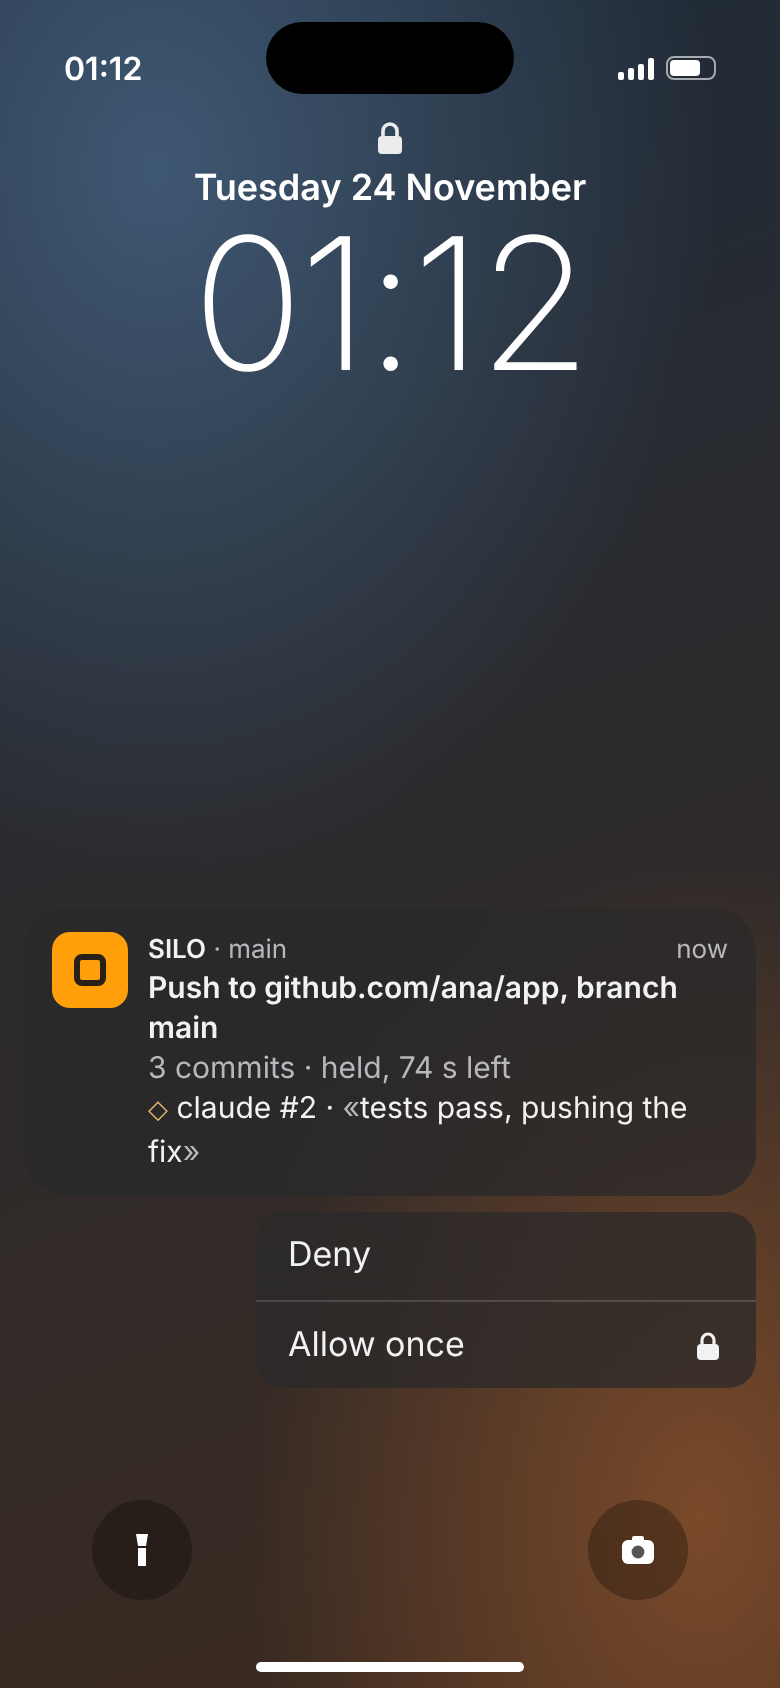
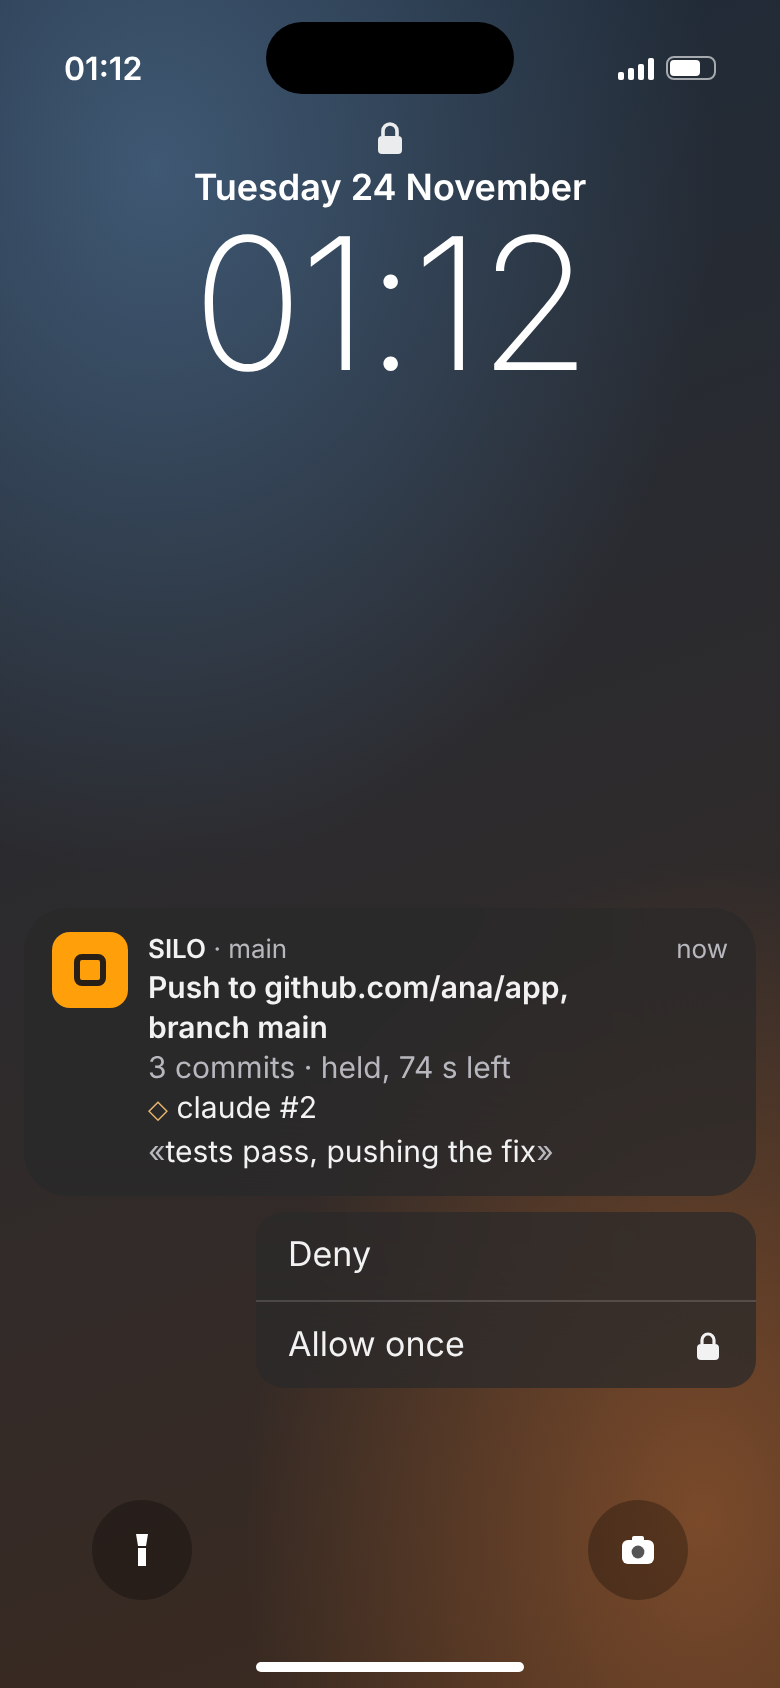
Research: experience, static pictures of the phone ask, the phone list, the Mac's morning screen and a Mac notification
Claude-Session: https://claude.ai/code/session_01D1gwS3kY6ywMLTtiG79Ebi

diff --git a/research/2026-11-24-experience/screens/phone-list.html b/research/2026-11-24-experience/screens/phone-list.html
@@ -1,0 +1,181 @@
+<!doctype html>
+<html lang="en">
+<head>
+<meta charset="utf-8">
+<meta name="viewport" content="width=device-width, initial-scale=1">
+<title>Silo phone list</title>
+<style>
+:root {
+  --paper: #f2f2ef; --surface: #fff; --ink: #282a2f; --muted: #666a73; --faint: #8a8e92;
+  --line: #e2e3e0; --rule: #c6c9c5; --accent: #ff9f0a; --accent-ink: #995700; --accent-wash: #fff2dc;
+  --no: #c4493c; --hover: #f1f1ee;
+}
+@media (prefers-color-scheme: dark) {
+  :root:not([data-theme="light"]) {
+    --paper: #111314; --surface: #202425; --ink: #e5e7e4; --muted: #a5adaa; --faint: #7f8785;
+    --line: #2f3535; --rule: #4b5454; --accent-ink: #e8b66e; --accent-wash: #30291f; --no: #ee7d70; --hover: #282d2e;
+  }
+}
+:root[data-theme="dark"] {
+  --paper: #111314; --surface: #202425; --ink: #e5e7e4; --muted: #a5adaa; --faint: #7f8785;
+  --line: #2f3535; --rule: #4b5454; --accent-ink: #e8b66e; --accent-wash: #30291f; --no: #ee7d70; --hover: #282d2e;
+}
+* { box-sizing: border-box; }
+html, body { margin: 0; height: 100%; }
+body {
+  background: var(--paper); color: var(--ink); overflow: hidden;
+  font: 15px/20px -apple-system, BlinkMacSystemFont, "SF Pro Text", Inter, system-ui, sans-serif;
+}
+code { font: 13px/20px ui-monospace, "SF Mono", Menlo, "JetBrains Mono", monospace; }
+.status { height: 54px; display: flex; justify-content: space-between; align-items: center; padding: 14px 32px 0; font-weight: 600; font-size: 16px; }
+.island { position: absolute; top: 11px; left: 50%; transform: translateX(-50%); width: 124px; height: 36px; background: #000; border-radius: 20px; }
+.bars { display: inline-flex; gap: 2px; align-items: flex-end; height: 11px; }
+.bars i { width: 3px; background: var(--ink); border-radius: 1px; display: block; }
+.wrap { padding: 8px 16px 0; }
+h1 { font-size: 30px; line-height: 40px; margin: 4px 0 12px; font-weight: 700; }
+
+.card { background: var(--surface); border-radius: 12px; }
+.away { display: flex; align-items: center; justify-content: space-between; height: 48px; padding: 0 16px; }
+.away .t { font-weight: 500; }
+.away .t span { color: var(--muted); font-weight: 400; }
+.switch { width: 51px; height: 31px; border-radius: 16px; background: var(--rule); position: relative; flex: none; }
+.switch::after { content: ""; position: absolute; top: 2px; left: 2px; width: 27px; height: 27px; border-radius: 50%; background: #fff; box-shadow: 0 1px 3px rgba(0,0,0,.25); }
+.switch.on { background: var(--accent); }
+.switch.on::after { left: 22px; }
+
+h2 { font-size: 13px; line-height: 20px; font-weight: 600; letter-spacing: .04em; text-transform: uppercase; color: var(--muted); margin: 20px 16px 6px; display: flex; gap: 6px; }
+h2 .c { color: var(--faint); font-weight: 500; }
+
+.item { display: grid; grid-template-columns: minmax(0, 1fr) auto; column-gap: 12px; align-items: center; padding: 10px 16px; min-height: 60px; }
+.item + .item { border-top: 1px solid var(--line); margin-left: 16px; padding-left: 0; }
+.item .l1 { font-weight: 500; white-space: nowrap; overflow: hidden; text-overflow: ellipsis; }
+.item .l2 { color: var(--muted); font-size: 13px; line-height: 18px; white-space: nowrap; overflow: hidden; text-overflow: ellipsis; }
+.item .l1 code { font-weight: 500; }
+
+.btn {
+  font: inherit; font-size: 14px; font-weight: 500; color: var(--ink); background: var(--surface);
+  border: 1px solid var(--rule); border-radius: 8px; height: 32px; padding: 0 12px; display: inline-flex; align-items: center; gap: 6px;
+}
+.btn.primary { background: var(--accent-wash); border-color: var(--accent); color: var(--accent-ink); }
+.btn svg { width: 13px; height: 13px; }
+.ask .btns { grid-column: 1 / -1; display: flex; gap: 8px; margin-top: 8px; }
+.ask .btns .btn { flex: 1; justify-content: center; height: 36px; }
+.left { color: var(--accent-ink); font-variant-numeric: tabular-nums; font-size: 13px; font-weight: 600; align-self: start; }
+
+.m { font-family: "DejaVu Sans", -apple-system, sans-serif; font-size: 12px; color: var(--muted); }
+.m.op { color: var(--accent-ink); }
+.q::before { content: "«"; color: var(--faint); } .q::after { content: "»"; color: var(--faint); }
+.mismatch { color: var(--no); }
+
+.tabbar { position: absolute; left: 0; right: 0; bottom: 0; height: 34px; }
+.home { position: absolute; bottom: 8px; left: 50%; transform: translateX(-50%); width: 134px; height: 5px; border-radius: 3px; background: var(--ink); }
+
+.day { display: none; }
+body.is-day .night { display: none; }
+body.is-day .day { display: block; }
+body.is-day .day.s { display: inline; }
+body.is-day .away.day { display: flex; }
+</style>
+</head>
+<body>
+<div class="island"></div>
+<div class="status"><span class="night s">06:58</span><span class="day s">14:20</span><span class="bars"><i style="height:4px"></i><i style="height:6px"></i><i style="height:8px"></i><i style="height:11px"></i></span></div>
+
+<div class="wrap">
+  <h1>Silo</h1>
+
+  <div class="card away night">
+    <span class="t">Away <span>until 07:00</span></span>
+    <span class="switch on" role="switch" aria-checked="true" aria-label="Away until 07:00"></span>
+  </div>
+  <div class="card away day">
+    <span class="t">Away</span>
+    <span class="switch" role="switch" aria-checked="false" aria-label="Away"></span>
+  </div>
+
+  <!-- morning, away on: nothing is held, so no asks -->
+  <section class="night">
+    <h2>Refused while you were away <span class="c">1</span></h2>
+    <div class="card">
+      <div class="item">
+        <div style="min-width:0">
+          <div class="l1">2 pushes to ana/app</div>
+          <div class="l2">main · <span class="m op" role="img" aria-label="Opinion of which-run-did-it">◇</span> claude #2 · 01:12</div>
+        </div>
+        <button class="btn">Allow next time</button>
+      </div>
+    </div>
+
+    <h2>For the morning <span class="c">3</span></h2>
+    <div class="card">
+      <div class="item">
+        <div style="min-width:0">
+          <div class="l1"><code>~/work/shared-fixtures</code></div>
+          <div class="l2">main · deleted 02:47 · 3,412 files</div>
+        </div>
+        <button class="btn primary">Put back</button>
+      </div>
+      <div class="item">
+        <div style="min-width:0">
+          <div class="l1"><span class="m op" role="img" aria-label="Opinion of how-each-run-is-going">◇</span> codex stuck since 04:58</div>
+          <div class="l2">try-bun · no model call for 2 h</div>
+        </div>
+        <button class="btn">Stop run</button>
+      </div>
+      <div class="item">
+        <div style="min-width:0">
+          <div class="l1">claude #1 ended · <span class="m op" role="img" aria-label="Opinion of the claims classifier">◇</span> <span class="mismatch">mismatch</span></div>
+          <div class="l2"><span class="q" aria-label="Words claude #1 wrote">All tests pass</span> · <span class="m" role="img" aria-label="Told by the probe, unverified">◌</span> 3 failed</div>
+        </div>
+        <button class="btn">Receipt</button>
+      </div>
+    </div>
+  </section>
+
+  <!-- day, away off: asks wait for an answer -->
+  <section class="day">
+    <h2>Asks <span class="c">2</span></h2>
+    <div class="card">
+      <div class="item ask">
+        <div style="min-width:0">
+          <div class="l1">Push to github.com/ana/app, main</div>
+          <div class="l2">main · 3 commits · <span class="m op" role="img" aria-label="Opinion of which-run-did-it">◇</span> claude #2</div>
+          <div class="l2"><span class="q" aria-label="Words claude #2 wrote">tests pass, pushing the fix</span></div>
+        </div>
+        <span class="left">74 s</span>
+        <div class="btns">
+          <button class="btn">Deny</button>
+          <button class="btn primary" aria-label="Allow once, needs Face ID">Allow once <svg viewBox="0 0 16 16" aria-hidden="true"><rect x="2.5" y="7" width="11" height="8" rx="2" fill="currentColor"/><path d="M5 7V5a3 3 0 0 1 6 0v2" stroke="currentColor" stroke-width="1.6" fill="none"/></svg></button>
+        </div>
+      </div>
+      <div class="item ask">
+        <div style="min-width:0">
+          <div class="l1">POST to api.stripe.com/v1/refunds</div>
+          <div class="l2">try-bun · secret STRIPE_TEST_KEY · <span class="m op" role="img" aria-label="Opinion of which-run-did-it">◇</span> codex</div>
+        </div>
+        <span class="left">41 s</span>
+        <div class="btns">
+          <button class="btn">Deny</button>
+          <button class="btn primary" aria-label="Allow once, needs Face ID">Allow once <svg viewBox="0 0 16 16" aria-hidden="true"><rect x="2.5" y="7" width="11" height="8" rx="2" fill="currentColor"/><path d="M5 7V5a3 3 0 0 1 6 0v2" stroke="currentColor" stroke-width="1.6" fill="none"/></svg></button>
+        </div>
+      </div>
+    </div>
+
+    <h2>Alerts <span class="c">1</span></h2>
+    <div class="card">
+      <div class="item">
+        <div style="min-width:0">
+          <div class="l1">New host bun.sh</div>
+          <div class="l2">try-bun · 38 MB in · 2 KB out</div>
+        </div>
+        <button class="btn">Deny this host</button>
+      </div>
+    </div>
+  </section>
+</div>
+<div class="home"></div>
+<script>
+if (location.hash === '#day') document.body.classList.add('is-day');
+</script>
+</body>
+</html>

diff --git a/research/2026-11-24-experience/screens/mac-notification.html b/research/2026-11-24-experience/screens/mac-notification.html
@@ -1,0 +1,102 @@
+<!doctype html>
+<html lang="en">
+<head>
+<meta charset="utf-8">
+<meta name="viewport" content="width=device-width, initial-scale=1">
+<title>Silo Mac notification</title>
+<style>
+:root {
+  --glass: rgba(246, 246, 246, .82); --glass-ink: #1c1c1e; --glass-muted: #5a5a60; --glass-line: rgba(0, 0, 0, .12);
+  --accent: #ff9f0a; --accent-ink: #995700; --menubar: rgba(240, 240, 240, .7); --menubar-ink: #1c1c1e;
+}
+@media (prefers-color-scheme: dark) {
+  :root:not([data-theme="light"]) {
+    --glass: rgba(44, 44, 46, .82); --glass-ink: #f2f2f3; --glass-muted: #b0b0b6; --glass-line: rgba(255, 255, 255, .14);
+    --accent-ink: #e8b66e; --menubar: rgba(30, 30, 30, .6); --menubar-ink: #f2f2f3;
+  }
+}
+:root[data-theme="dark"] {
+  --glass: rgba(44, 44, 46, .82); --glass-ink: #f2f2f3; --glass-muted: #b0b0b6; --glass-line: rgba(255, 255, 255, .14);
+  --accent-ink: #e8b66e; --menubar: rgba(30, 30, 30, .6); --menubar-ink: #f2f2f3;
+}
+* { box-sizing: border-box; }
+html, body { margin: 0; height: 100%; }
+body {
+  font: 13px/18px -apple-system, BlinkMacSystemFont, "SF Pro Text", Inter, system-ui, sans-serif;
+  overflow: hidden; position: relative;
+  background: radial-gradient(80% 70% at 15% 20%, #6d8db0 0%, transparent 60%),
+              radial-gradient(70% 60% at 85% 85%, #c98a5a 0%, transparent 60%),
+              linear-gradient(150deg, #3b5470, #6e4f3e);
+}
+.menubar { height: 24px; background: var(--menubar); color: var(--menubar-ink); display: flex; align-items: center; gap: 18px; padding: 0 14px; font-size: 13px; backdrop-filter: blur(20px); }
+.menubar b { font-weight: 700; }
+.menubar .grow { flex: 1; }
+.menubar .silo { width: 14px; height: 14px; border: 2px solid currentColor; border-radius: 4px; }
+
+/* the terminal behind: the agent waits on the push */
+.term { position: absolute; left: 120px; top: 90px; width: 760px; height: 470px; border-radius: 10px; overflow: hidden; background: #1e1f22; color: #d6d6d6; box-shadow: 0 20px 60px rgba(0,0,0,.35); }
+.term .bar { height: 28px; background: #2b2c30; display: flex; align-items: center; gap: 8px; padding: 0 12px; color: #9a9aa0; font-size: 12px; }
+.term .bar i { width: 12px; height: 12px; border-radius: 50%; display: block; }
+.term pre { margin: 0; padding: 12px 16px; font: 12px/18px ui-monospace, "SF Mono", Menlo, "JetBrains Mono", monospace; white-space: pre; }
+.term .dim { color: #7d7d84; }
+.term .g { color: #8ac48a; }
+
+.banner {
+  position: absolute; top: 34px; right: 10px; width: 420px;
+  background: var(--glass); color: var(--glass-ink); border-radius: 16px;
+  backdrop-filter: blur(30px); -webkit-backdrop-filter: blur(30px);
+  box-shadow: 0 10px 30px rgba(0,0,0,.25), 0 0 0 .5px rgba(0,0,0,.15);
+  display: grid; grid-template-columns: 1fr 96px; overflow: hidden;
+}
+.content { display: grid; grid-template-columns: 32px 1fr; column-gap: 10px; padding: 12px 12px 12px 12px; min-width: 0; }
+.icon { width: 32px; height: 32px; border-radius: 8px; background: var(--accent); display: grid; place-items: center; }
+.icon i { width: 13px; height: 13px; border: 2.5px solid #282016; border-radius: 3px; display: block; }
+.head { display: flex; justify-content: space-between; color: var(--glass-muted); font-size: 12px; }
+.head b { color: var(--glass-ink); font-weight: 600; }
+.title { font-weight: 600; }
+.d { color: var(--glass-muted); }
+.m { font-family: "DejaVu Sans", -apple-system, sans-serif; font-size: 11px; color: var(--accent-ink); }
+.q, .nw { white-space: nowrap; }
+.q::before { content: "«"; color: var(--glass-muted); } .q::after { content: "»"; color: var(--glass-muted); }
+.actions { display: grid; grid-template-rows: 1fr 1fr; border-left: 1px solid var(--glass-line); }
+.actions button { all: unset; display: grid; place-items: center; font-weight: 500; cursor: pointer; color: var(--glass-ink); }
+.actions button + button { border-top: 1px solid var(--glass-line); }
+.actions button:hover { background: var(--glass-line); }
+</style>
+</head>
+<body>
+<div class="menubar"><b>Terminal</b><span>Shell</span><span>Edit</span><span>View</span><span>Window</span><span>Help</span><span class="grow"></span><span class="silo" aria-label="Silo"></span><span>Tue 24 Nov 10:40</span></div>
+
+<div class="term" aria-hidden="true">
+  <div class="bar"><i style="background:#ff5f57"></i><i style="background:#febc2e"></i><i style="background:#28c840"></i><span style="flex:1;text-align:center">ana@main: ~/work/app — ssh main.keep</span></div>
+<pre><span class="dim">ana@main app %</span> claude --dangerously-skip-permissions
+
+<span class="g">⏺</span> All 412 tests pass. Committing the fix.
+
+<span class="g">⏺</span> Bash(git commit -am "Fix session expiry in Postgres store")
+  ⎿  [main 4f2a91c] Fix session expiry in Postgres store
+      3 files changed, 41 insertions(+), 12 deletions(-)
+
+<span class="g">⏺</span> Bash(git push origin main)
+  ⎿  <span class="dim">Running…</span>
+</pre>
+</div>
+
+<div class="banner" role="group" aria-label="Silo ask">
+  <div class="content">
+    <div class="icon"><i></i></div>
+    <div style="min-width:0">
+      <div class="head"><span><b>Silo</b> · main</span><span>now</span></div>
+      <div class="title">Push to github.com/ana/app, <span class="nw">branch main</span></div>
+      <div class="d">3 commits · held, 74 s left</div>
+      <div><span class="m" role="img" aria-label="Opinion of which-run-did-it">◇</span> claude #2</div>
+      <div><span class="q" aria-label="Words claude #2 wrote">tests pass, pushing the fix</span></div>
+    </div>
+  </div>
+  <div class="actions">
+    <button>Allow once</button>
+    <button>Deny</button>
+  </div>
+</div>
+</body>
+</html>

diff --git a/research/2026-11-24-experience/screens/phone-lock-ask.html b/research/2026-11-24-experience/screens/phone-lock-ask.html
@@ -53,6 +53,7 @@ body {
 .body { color: var(--glass-ink); line-height: 20px; }
 .body .d { color: var(--glass-muted); }
 .m { font-family: "DejaVu Sans", -apple-system, sans-serif; font-size: 13px; color: var(--accent-ink); }
+.q, .nw { white-space: nowrap; }
 .q::before { content: "«"; color: var(--glass-muted); } .q::after { content: "»"; color: var(--glass-muted); }
 
 .actions {
@@ -91,9 +92,10 @@ body.is-folded .folded { display: block; }
     <div class="icon"><i></i></div>
     <div>
       <div class="head"><span><b>SILO</b> · main</span><span>now</span></div>
-      <div class="title">Push to github.com/ana/app, branch main</div>
+      <div class="title">Push to github.com/ana/app, <span class="nw">branch main</span></div>
       <div class="body"><span class="d">3 commits · held, 74 s left</span></div>
-      <div class="body"><span class="m" role="img" aria-label="Opinion of which-run-did-it">◇</span> claude #2 · <span class="q" aria-label="Words claude #2 wrote">tests pass, pushing the fix</span></div>
+      <div class="body"><span class="m" role="img" aria-label="Opinion of which-run-did-it">◇</span> claude #2</div>
+      <div><span class="q" aria-label="Words claude #2 wrote">tests pass, pushing the fix</span></div>
     </div>
   </div>
   <div class="actions">

diff --git a/research/2026-11-24-experience/screens/README.md b/research/2026-11-24-experience/screens/README.md
@@ -1,0 +1,23 @@
+# Screens drawn for the night case
+
+Static pictures, drawn on 24 November 2026 for the owner to look at before anything is built.
+Nothing here is a decision. The content is the night of [`daily-loop.md`](../details/daily-loop.md)
+and the `silo` output of [`cli.md`](../details/cli.md). Each picture is an HTML file with a PNG of
+it beside it.
+
+Marks follow record-ux Part 2. A fact has no mark. ◌ is a report, told by the probe. ◇ is an
+opinion. Words an agent wrote are between « and ». On the Mac, each mark has a tooltip of six
+words or fewer. The light Mac picture shows one of them open.
+
+| Picture | What it shows | Plan entries | Proposals in daily-loop.md |
+|---|---|---|---|
+| `phone-lock-ask.png` | The iPhone lock screen at 01:12 with one ask: a push to github.com/ana/app, branch main, 3 commits, held with 74 s left, and claude #2's words. Deny is one tap. Allow once has a lock, because it needs Face ID. | `what-an-ask-shows`, `ask-reaches-you`, `phone-app`, `hold-limit-length` | Gap 4: the lock-screen ask, Deny one tap, Allow once behind Face ID, time left shown |
+| `phone-lock-folded.png` | The same lock screen when more than three asks arrive in a minute: one notification, "7 asks from main". The hosts in it are made up for the picture. | `ask-reaches-you`, `alert-only-on-a-change` | Gap 4: a flood is folded |
+| `phone-list.png` | The phone app at 06:58, with Away on until 07:00. It lists the pushes refused while you were away, with Allow next time, and three items for the morning. There is no Asks section, because nothing is held while you are away. | `phone-app`, `one-queue`, `silo-proposes-rules` | Gap 4: refused asks stay, Away said by you, the phone app's first job. Gap 5: the morning column |
+| `phone-list-day.png` | The same app at 14:20, with Away off. Two asks wait, with their time left, Deny and Allow once. One alert follows. The Stripe ask is made up for the picture. | `phone-app`, `one-queue`, `what-an-ask-shows` | Gap 4, item 3 |
+| `mac-morning.png`, `mac-morning-dark.png` | The Mac app's first screen at 06:58, light and dark. One line counts what happened since Mon 22:58. Needs you holds the deleted folder with Put back from 02:46, codex stuck in try-bun, and the 2 refused pushes. Done holds claude #1, whose «All tests pass» is a mismatch, and claude #2. Now, Disk, Network and Timeline are at the bottom. | `first-screen`, `one-queue`, `kinds-look-different`, `how-each-run-is-going`, `restore-saves-first` | Morning: the Mac's sleep line, the refused asks. Gap 6: put back paths from a checkpoint |
+| `mac-notification.png` | A macOS banner for the same ask, with Allow once and Deny, while claude #2 waits on `git push` in the terminal behind it. | `ask-reaches-you`, `held-requests-and-asks` | Gap 7: asks as Mac notifications |
+
+To make the PNGs again, open each HTML file in Playwright's Chromium at 390×844 (phone) or
+1280×800 (Mac), with a device scale factor of 2. `phone-lock-ask.html#folded` and
+`phone-list.html#day` draw the second state of those files.

diff --git a/research/2026-11-24-experience/README.md b/research/2026-11-24-experience/README.md
@@ -18,7 +18,7 @@ which this research does not repeat.
 | [`details/daily-loop.md`](details/daily-loop.md) | One day and night, step by step, with seven gaps; the lock-screen ask; which alerts interrupt |
 | [`details/cli.md`](details/cli.md) | The `silo` command: every command, its output on one real case, and the conventions they share |
 | [`details/plan-map.md`](details/plan-map.md) | Each step against its plan entries, the ten entries that hurt the experience, and the new entries proposed |
-| `screens/` | Static pictures of the phone ask, the phone list, the Mac's morning screen and a Mac notification |
+| [`screens/`](screens/README.md) | Static pictures of the phone ask, the phone list, the Mac's morning screen and a Mac notification |
 | [`details/onboarding.md`](details/onboarding.md) | How Docker's `sbx`, OrbStack, Tart, Conductor, Claude Code, Codex and others onboard, and bring people back |
 | [`details/complaints.md`](details/complaints.md) | 103 user reports, sourced and counted, on onboarding, approvals, unattended runs, phones and lost work |
 | [`details/notify-review-cli.md`](details/notify-review-cli.md) | Phone approvals and push, morning review, and command-line conventions in other tools |
